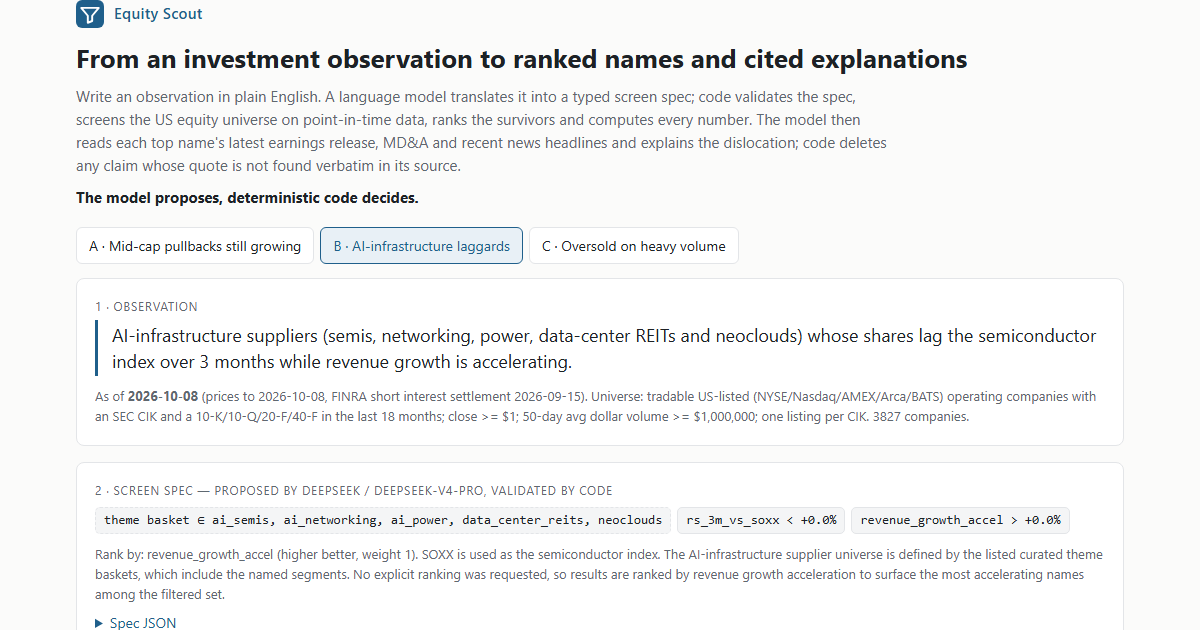
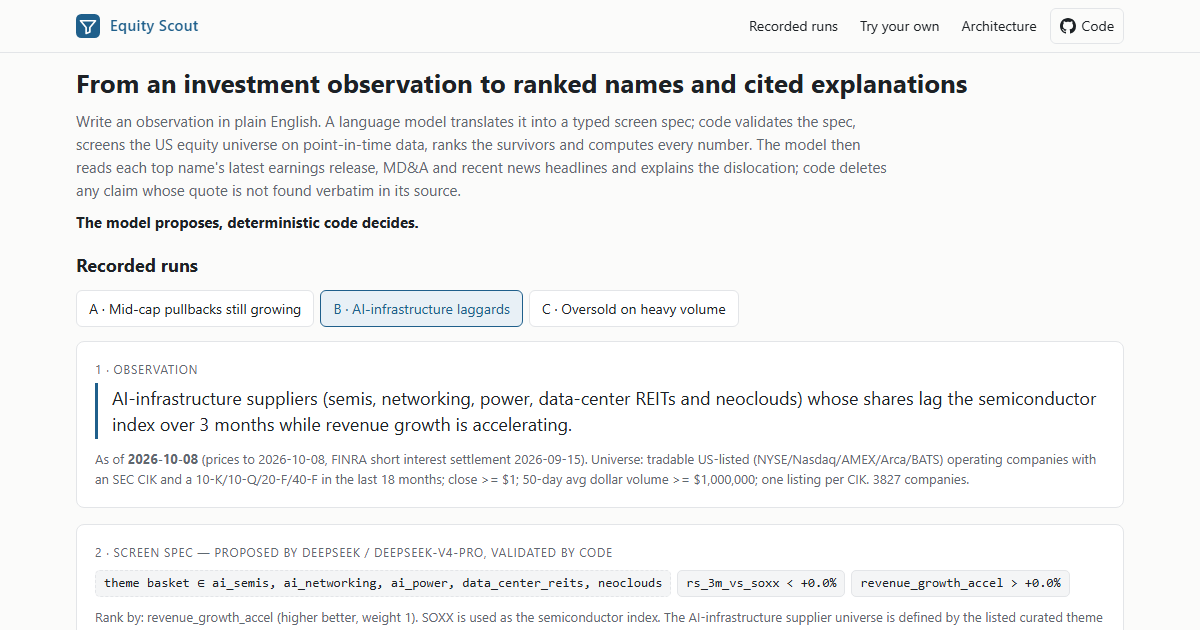
Try-it docs and screenshots; replay uses the recorded spec for table columns; URL params for the local app

diff --git a/src/scout/web/app.js b/src/scout/web/app.js
@@ -34,6 +34,9 @@
         (s.keys.alpaca ? "on" : "<strong>off</strong> (keys missing)") + ". Rebuild the snapshot with <code>scout build --as-of YYYY-MM-DD</code>.";
       $("replay-run").innerHTML = s.runs.map(function (r) { return '<option value="' + esc(r.id) + '">' + esc(r.id) + "</option>"; }).join("");
       stages("translate");
+      var q = new URLSearchParams(location.search);
+      if (q.get("obs")) $("obs").value = q.get("obs");
+      if (q.get("replay")) { $("replay-run").value = q.get("replay"); $("replay").click(); }
     }).catch(function () { status('<span class="err">Cannot reach the local server.</span>'); });
   }
 
@@ -111,14 +114,12 @@
     es = new EventSource("/api/jobs/" + jobId + "/events");
     function on(name, fn) { es.addEventListener(name, function (m) { var e = JSON.parse(m.data); lastT = e.t; fn(e.data); }); }
     on("status", function (d) { status(esc(d.message), true); });
-    on("spec", function (d) { if (!specShown) $("o-spec").innerHTML = U.specHtml(d, "Recorded spec (replay)"); });
+    on("spec", function (d) { if (!specShown) { spec = d; $("o-spec").innerHTML = U.specHtml(d, "Recorded spec (replay)"); } });
     on("screen", function (d) {
       $("o-funnel").hidden = false; $("o-table").hidden = false;
       $("o-funnel").innerHTML = U.funnelHtml(d.funnel, "Funnel (computed by code, snapshot as of " + d.as_of + ")");
       var sp = spec || { conditions: [], rank: [] };
       var cols = d.ranked.length ? U.tableColumns(sp).filter(function (c) { return c in d.ranked[0] || c === "rank"; }) : [];
-      if (!spec) cols = ["rank", "symbol", "name", "score", "market_cap"].concat(Object.keys(d.ranked[0] || {}).filter(function (k) {
-        return k.indexOf("rank_pct_") === 0; }).map(function (k) { return k.slice(9); })).filter(function (c, i, a) { return a.indexOf(c) === i; });
       $("o-table").innerHTML = U.tableHtml(cols, d.ranked.slice(0, 25), d.top_n, d.ranked.length);
       if (d.top_n && d.ranked.length) {
         $("o-ex").hidden = false;

diff --git a/README.md b/README.md
@@ -9,8 +9,44 @@ might disagree. Code deletes any claim whose quote does not appear verbatim in i
 
 ![Recorded run A on the demo site](docs/screenshot.png)
 
-The demo site is `docs/index.html`. It has no build step and works opened straight from disk or from GitHub Pages
-(source: `docs/`). It shows three recorded runs end to end.
+## Try it
+
+**In the browser, with nothing installed:** open the demo site
+([henryzhangpku.github.io/equity-scout](https://henryzhangpku.github.io/equity-scout/), or `docs/index.html` from disk)
+and open **Try your own**.
+
+* The panel loads the full 2026-10-08 feature snapshot for 3,827 companies. That is 5.2 MB raw and about 2.1 MB
+  gzipped, fetched only when the panel opens. The screen, funnel and ranking then run in the page.
+  `docs/scout-core.js` is a line-by-line port of the Python validator, screen and ranker. A parity test runs the
+  recorded specs through both implementations and requires identical funnels, rankings and refusal messages.
+* **Spec editor.** Start from any recorded run's spec, or from a blank one. Choose fields, operators and
+  thresholds from the whitelist, or edit the JSON. The browser validator applies the same rules as the app and shows
+  each refusal.
+* **Bring your own key (optional).** Paste a DeepSeek key and the page sends your observation, with the same system
+  prompt the app uses, straight to `api.deepseek.com`. DeepSeek's API allows browser CORS; this was checked before
+  the feature was built. The key stays in a JavaScript variable, is never stored, and goes nowhere else. The
+  proposed spec fills the editor; nothing runs until you press Run.
+* **Explanations are not generated in the browser.** SEC documents cannot be fetched from a browser, because EDGAR
+  has no CORS. Results are labelled *snapshot as of 2026-10-08 close; explanations need the local app*. When a
+  name already has an explanation from a recorded run, that explanation is shown.
+
+![Try your own: spec editor and in-browser screen](docs/screenshot-try.png)
+
+**Locally, for live demos:** `uv run scout serve` opens `http://127.0.0.1:8765/`. Type an observation and the model
+proposes a spec. After you confirm, the full pipeline runs on the latest snapshot plus live EDGAR filings and
+Alpaca news. The funnel and table appear first. The cited explanations then stream in, one per name, about 40 s
+each, with links to the SEC documents.
+
+* Each stage is shown on screen. Each model call times out after 180 s. A failure on one name turns into a *not
+  enough evidence* card and the run continues. Any error message points to the fallback.
+* **Replay a recorded run** streams a recorded run with no network.
+* `scout serve --offline` answers only from recorded material (the LLM cache and saved documents). It is the safe
+  mode when the network is unreliable.
+* Picks go into the hash-chained ledger only when you click **Record**.
+* Keys come from the environment, as for the CLI, and never reach the page.
+* `?replay=<run-id>` in the URL starts a replay on page load.
+
+![scout serve replaying run C](docs/screenshot-serve.png)
 
 ## The rule: the model proposes, deterministic code decides
 
@@ -115,8 +151,9 @@ uv run scout replay runs/b-ai-infra-laggards
 # live: needs DEEPSEEK_API_KEY, plus ALPACA_API_KEY / ALPACA_API_SECRET for news
 uv run scout run "Profitable mid-caps ... back above the 50-day average." --top 5
 uv run scout spec "..."          # translate only; prints the validated spec
+uv run scout serve               # local web app (add --offline for recorded material only)
 uv run scout track               # mark the pick ledger to market vs SPY and SMH
-uv run scout site                # export runs to docs/data/runs.js
+uv run scout site                # export runs, schema and the browser snapshot to docs/data/
 
 # rebuild the feature snapshot for a new date (Alpaca + SEC + FINRA, about 30 min cold, cached afterwards)
 uv run scout build --as-of 2026-10-08
@@ -132,7 +169,7 @@ library.
 
 ## Tests
 
-`uv run pytest`: 68 tests, none skipped.
+`uv run pytest`: 83 tests, none skipped. The browser parity tests need Node.js on the PATH.
 
 * indicators against hand-computed values (SMA, Wilder RSI step by step, EMA/MACD, momentum, volume ratio,
   drawdown, relative strength)
@@ -144,6 +181,10 @@ library.
 * funnel arithmetic on a hand-built universe, including missing data counts
 * the pick ledger detects edits and deletions; mark-to-market arithmetic
 * news cut at the as-of close, with full article text never used
+* browser parity: the JS validator, screen and ranker under Node give the same funnels, rankings and
+  refusal messages as Python, on the shipped browser snapshot and against the recorded runs
+* `scout serve` endpoints, offline: status, translate from the recorded cache, refusals, a streamed run that
+  reproduces run C, record-on-click (one ledger entry, chain intact), replay, path and job guards
 * offline replay of all three recorded runs, with the network disabled, reproduces spec, funnel, ranking and
   explanations exactly
 
